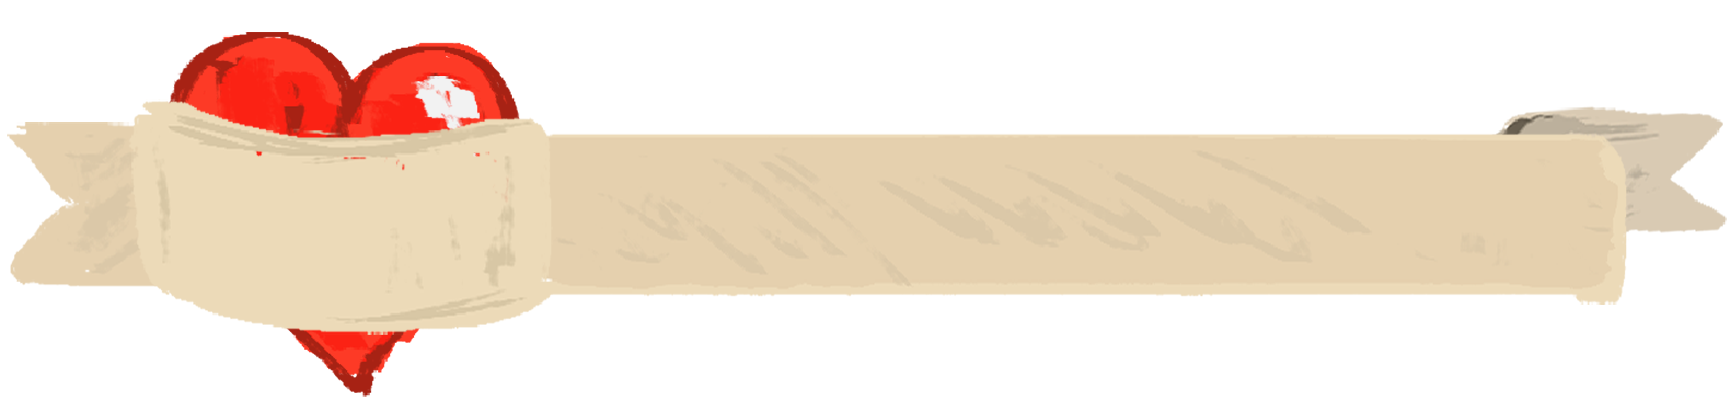
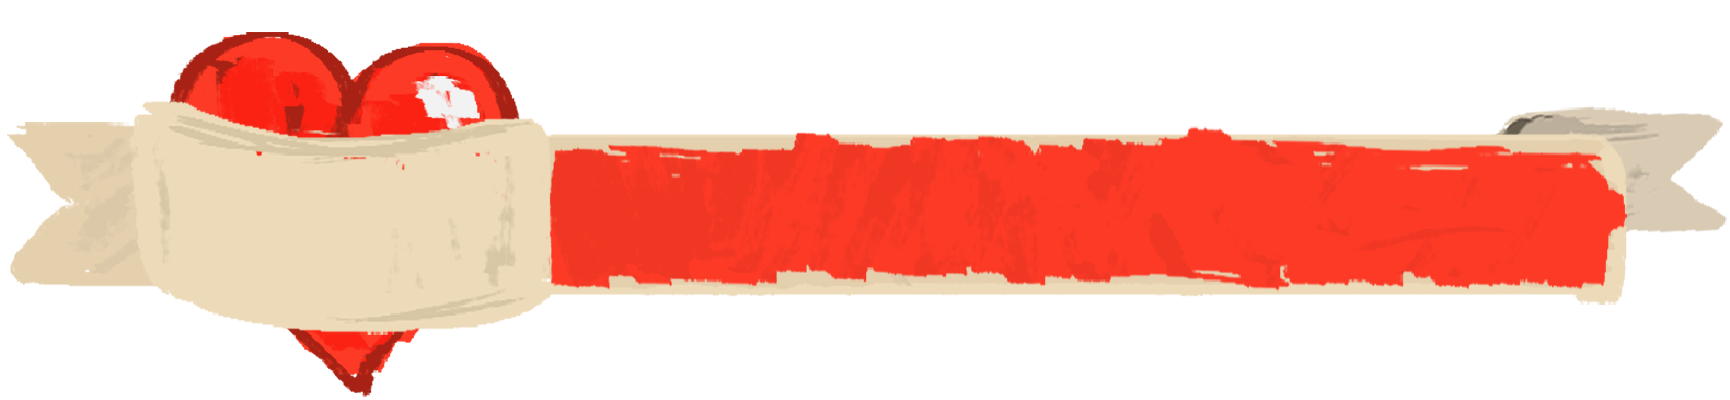
Updateted UI ish

Changed region(s): [[0.3121, 0.3, 0.9676, 0.72]]

diff --git a/Healthbar/Assets/Scripts/Player/PlayerScript.cs b/Healthbar/Assets/Scripts/Player/PlayerScript.cs
@@ -63,10 +63,9 @@ public class PlayerScript : ITickable
 
         _currentHealth -= damage;
         OnPlayerDamaged?.Invoke(damage);
-        if (_currentHealth < 0)
+        if (_currentHealth <= 0)
         {
             _currentHealth = 0;
-            Debug.Log("Player ded");
             GameMaster.Find<GameMaster>().GameOver();
             OnPlayerKilled?.Invoke();
         }
